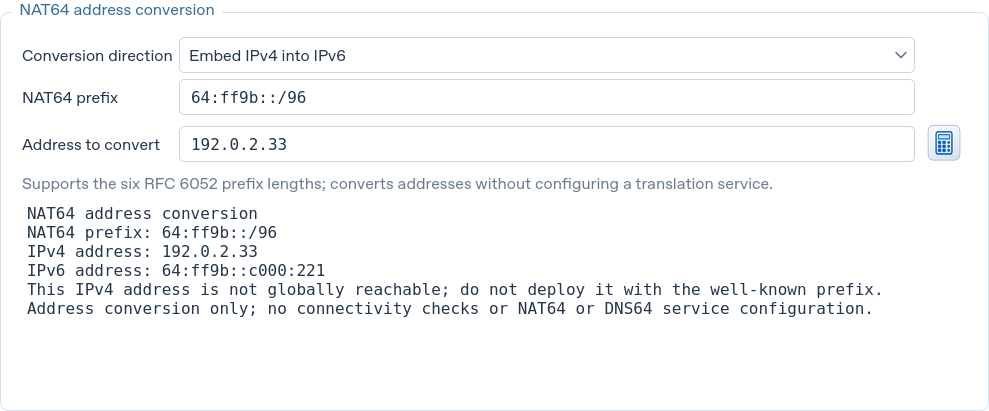
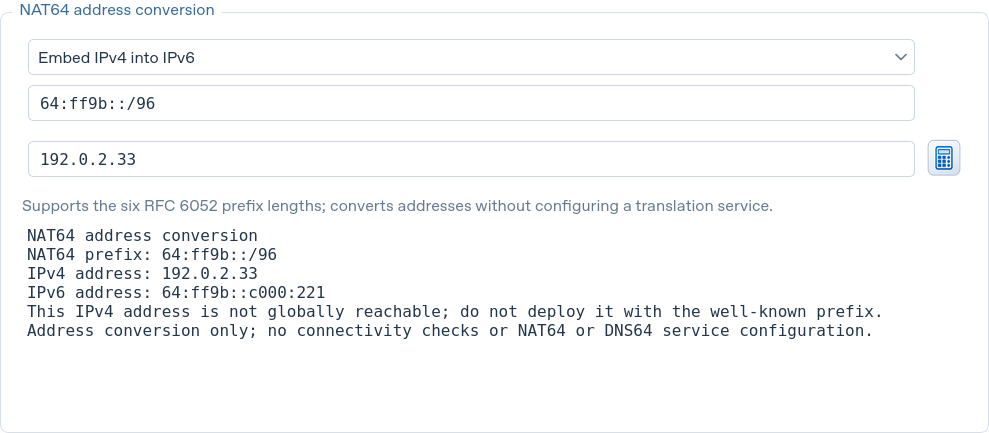
V1.36：修复 Windows 英文界面下 NAT64 面板横向溢出

Changed region(s): [[0.0, 0.292, 0.9707, 0.7883], [0.0, 0.0876, 0.9403, 0.2628], [0.0303, 0.0, 0.2123, 0.0584]]

diff --git a/ui/nat64_panel.py b/ui/nat64_panel.py
@@ -2,7 +2,7 @@
 # Copyright (C) 2026 IPv6SubnetCalculator contributors
 """Independent NAT64 conversion with immediate stale-output invalidation."""
 from PyQt6.QtCore import Qt, pyqtSignal
-from PyQt6.QtWidgets import QGridLayout
+from PyQt6.QtWidgets import QGridLayout, QSizePolicy
 from ui.localized_widgets import QGroupBox, QComboBox, QLabel, QLineEdit, QTextBrowser, LanguageAction
 from core.localized_text import text as tx
 from core.nat64 import convert_nat64
@@ -22,11 +22,14 @@ class Nat64Panel(QGroupBox):
         layout = QGridLayout(self)
         layout.setColumnStretch(1, 1)
         self.mode = QComboBox()
+        self.mode.setSizeAdjustPolicy(QComboBox.SizeAdjustPolicy.AdjustToMinimumContentsLengthWithIcon)
+        self.mode.setMinimumContentsLength(12)
         self.mode.addItem(tx('IPv4 嵌入 IPv6'), False)
         self.mode.addItem(tx('从 IPv6 提取 IPv4'), True)
         self.mode.setAccessibleName(tx('NAT64 换算方向'))
         self.mode.setToolTip(tx('选择将 IPv4 嵌入指定前缀，或从 IPv6 提取 IPv4。'))
-        layout.addWidget(QLabel(tx('换算方向')), 0, 0)
+        self.direction_label = self._caption(tx('换算方向'))
+        layout.addWidget(self.direction_label, 0, 0)
         layout.addWidget(self.mode, 0, 1)
         self.inputs = {}
         for row, (key, label, value, tip) in enumerate((
@@ -42,13 +45,14 @@ class Nat64Panel(QGroupBox):
             field.textChanged.connect(self.invalidate)
             field.returnPressed.connect(self.run)
             self.inputs[key] = field
-            layout.addWidget(QLabel(label), row, 0)
+            layout.addWidget(self._caption(label), row, 0)
             layout.addWidget(field, row, 1)
         self.run_button = IconButton('calculate', tx('执行 NAT64 地址换算（Enter）'))
         self.run_button.clicked.connect(self.run)
         layout.addWidget(self.run_button, 2, 2)
         self.hint = QLabel(tx('支持 RFC 6052 的六种前缀长度；仅换算地址，不配置转换服务。'))
         self.hint.setWordWrap(True)
+        self.hint.setSizePolicy(QSizePolicy.Policy.Ignored, QSizePolicy.Policy.Preferred)
         self.hint.setObjectName('Reference')
         layout.addWidget(self.hint, 3, 0, 1, 3)
         self.report = QTextBrowser()
@@ -66,6 +70,14 @@ class Nat64Panel(QGroupBox):
         self.report.customContextMenuRequested.connect(self.show_menu)
         self.mode.currentIndexChanged.connect(self.invalidate)
         self.invalidate()
+
+    @staticmethod
+    def _caption(text):
+        label = QLabel(text)
+        label.setWordWrap(True)
+        # Native Windows font metrics must not determine the page's minimum width.
+        label.setSizePolicy(QSizePolicy.Policy.Ignored, QSizePolicy.Policy.Preferred)
+        return label
 
     def invalidate(self, *_args):
         self.result = None

diff --git a/tests/test_nat64.py b/tests/test_nat64.py
@@ -122,3 +122,24 @@ class Nat64UiTests(unittest.TestCase):
                 rect = combo.style().subControlRect(QStyle.ComplexControl.CC_ComboBox, option,
                                                     QStyle.SubControl.SC_ComboBoxEditField, combo)
                 self.assertGreaterEqual(rect.width(), combo.fontMetrics().horizontalAdvance(combo.itemText(0))+4)
+
+    def test_nat64_wide_font_metrics_do_not_force_horizontal_tools_scroll(self):
+        from PyQt6.QtWidgets import QScrollArea, QLabel
+        panel = self.w.address_tools_page.nat64_panel
+        self.app.language_manager.apply('en_US', persist=False)
+        font = panel.font()
+        font.setStretch(220)
+        panel.setFont(font)
+        self.w.resize(900, 620)
+        self.w.tabs.setCurrentWidget(self.w.address_tools_page)
+        for theme in ('light', 'dark'):
+            with self.subTest(theme=theme):
+                self.app.theme_manager.apply(theme, persist=False)
+                for widget in [panel.mode, *panel.findChildren(QLabel)]:widget.setFont(font)
+                for _ in range(3):self.app.processEvents()
+                scroll = self.w.address_tools_page.findChild(QScrollArea)
+                self.assertEqual(scroll.horizontalScrollBar().maximum(), 0,
+                                 f'content {scroll.widget().width()}, viewport {scroll.viewport().width()}')
+                self.assertGreater(panel.inputs['address'].width(), 100)
+                self.assertLess(panel.run_button.mapTo(scroll.viewport(), panel.run_button.rect().bottomRight()).x(),
+                                scroll.viewport().width())

diff --git a/docs/RELEASE_NOTES.md b/docs/RELEASE_NOTES.md
@@ -2,6 +2,7 @@
 
 ## V1.36 NAT64 地址换算与显示修复 · 2026-11-20
 
+- 修复 Windows 英文界面下地址工具页在小窗口中横向溢出的问题，NAT64 标签与方向选择适应可用宽度。
 - 新增 NAT64 地址换算。支持按 RFC 6052 将 IPv4 地址嵌入指定前缀，或从 IPv6 地址提取 IPv4；可复制换算结果。
 - 区分地址格式换算与部署限制。校验前缀对齐、地址归属和保留字节，提取时对非零保留后缀给出提示。
 - 修复计算页「常用前缀」文字裁切；首次启动默认简体中文，保留已选择的界面语言。
@@ -10,6 +11,7 @@
 
 ## V1.36 NAT64 address conversion and display fix · 2026-11-20
 
+- Fix horizontal overflow in Address Tools on Windows with English and small windows; NAT64 labels and direction selection adapt to the available width.
 - Embed IPv4 addresses into a specified NAT64 prefix or extract them from IPv6 addresses using RFC 6052. Copy the converted address directly.
 - Distinguish address conversion from deployment restrictions. Check prefix alignment, address membership and the reserved octet, and report a nonzero reserved suffix during extraction.
 - Fix clipped text in the calculation page's prefix menu. First launch defaults to Simplified Chinese; a saved language choice is retained.

diff --git a/docs/DEVELOPMENT.md b/docs/DEVELOPMENT.md
@@ -2,12 +2,14 @@
 
 ## V1.36 NAT64 地址换算与显示修复 · 2026-11-20
 
+- 修复 Windows 英文界面下地址工具页在小窗口中横向溢出的问题，NAT64 标签与方向选择适应可用宽度。
 - 新增 NAT64 地址换算。支持按 RFC 6052 将 IPv4 地址嵌入指定前缀，或从 IPv6 地址提取 IPv4；可复制换算结果。
 - 区分地址格式换算与部署限制。校验前缀对齐、地址归属和保留字节，提取时对非零保留后缀给出提示。
 - 修复计算页「常用前缀」文字裁切；首次启动默认简体中文，保留已选择的界面语言。
 
 ## V1.36 NAT64 address conversion and display fix · 2026-11-20
 
+- Fix horizontal overflow in Address Tools on Windows with English and small windows; NAT64 labels and direction selection adapt to the available width.
 - Embed IPv4 addresses into a specified NAT64 prefix or extract them from IPv6 addresses using RFC 6052. Copy the converted address directly.
 - Distinguish address conversion from deployment restrictions. Check prefix alignment, address membership and the reserved octet, and report a nonzero reserved suffix during extraction.
 - Fix clipped text in the calculation page's prefix menu. First launch defaults to Simplified Chinese; a saved language choice is retained.

diff --git a/README_EN.md b/README_EN.md
@@ -4,6 +4,7 @@
 
 ## V1.36 NAT64 address conversion and display fix · 2026-11-20
 
+- Fix horizontal overflow in Address Tools on Windows with English and small windows; NAT64 labels and direction selection adapt to the available width.
 - Embed IPv4 addresses into a specified NAT64 prefix or extract them from IPv6 addresses using RFC 6052. Copy the converted address directly.
 - Distinguish address conversion from deployment restrictions. Check prefix alignment, address membership and the reserved octet, and report a nonzero reserved suffix during extraction.
 - Fix clipped text in the calculation page's prefix menu. First launch defaults to Simplified Chinese; a saved language choice is retained.

diff --git a/docs/about/RELEASE_NOTES_EN.md b/docs/about/RELEASE_NOTES_EN.md
@@ -2,6 +2,7 @@
 
 ## V1.36 NAT64 address conversion and display fix · 2026-11-20
 
+- Fix horizontal overflow in Address Tools on Windows with English and small windows; NAT64 labels and direction selection adapt to the available width.
 - Embed IPv4 addresses into a specified NAT64 prefix or extract them from IPv6 addresses using RFC 6052. Copy the converted address directly.
 - Distinguish address conversion from deployment restrictions. Check prefix alignment, address membership and the reserved octet, and report a nonzero reserved suffix during extraction.
 - Fix clipped text in the calculation page's prefix menu. First launch defaults to Simplified Chinese; a saved language choice is retained.

diff --git a/README.md b/README.md
@@ -4,6 +4,7 @@
 
 ## V1.36 NAT64 地址换算与显示修复 · 2026-11-20
 
+- 修复 Windows 英文界面下地址工具页在小窗口中横向溢出的问题，NAT64 标签与方向选择适应可用宽度。
 - 新增 NAT64 地址换算。支持按 RFC 6052 将 IPv4 地址嵌入指定前缀，或从 IPv6 地址提取 IPv4；可复制换算结果。
 - 区分地址格式换算与部署限制。校验前缀对齐、地址归属和保留字节，提取时对非零保留后缀给出提示。
 - 修复计算页「常用前缀」文字裁切；首次启动默认简体中文，保留已选择的界面语言。

diff --git a/docs/about/RELEASE_NOTES.md b/docs/about/RELEASE_NOTES.md
@@ -2,6 +2,7 @@
 
 ## V1.36 NAT64 地址换算与显示修复 · 2026-11-20
 
+- 修复 Windows 英文界面下地址工具页在小窗口中横向溢出的问题，NAT64 标签与方向选择适应可用宽度。
 - 新增 NAT64 地址换算。支持按 RFC 6052 将 IPv4 地址嵌入指定前缀，或从 IPv6 地址提取 IPv4；可复制换算结果。
 - 区分地址格式换算与部署限制。校验前缀对齐、地址归属和保留字节，提取时对非零保留后缀给出提示。
 - 修复计算页「常用前缀」文字裁切；首次启动默认简体中文，保留已选择的界面语言。
